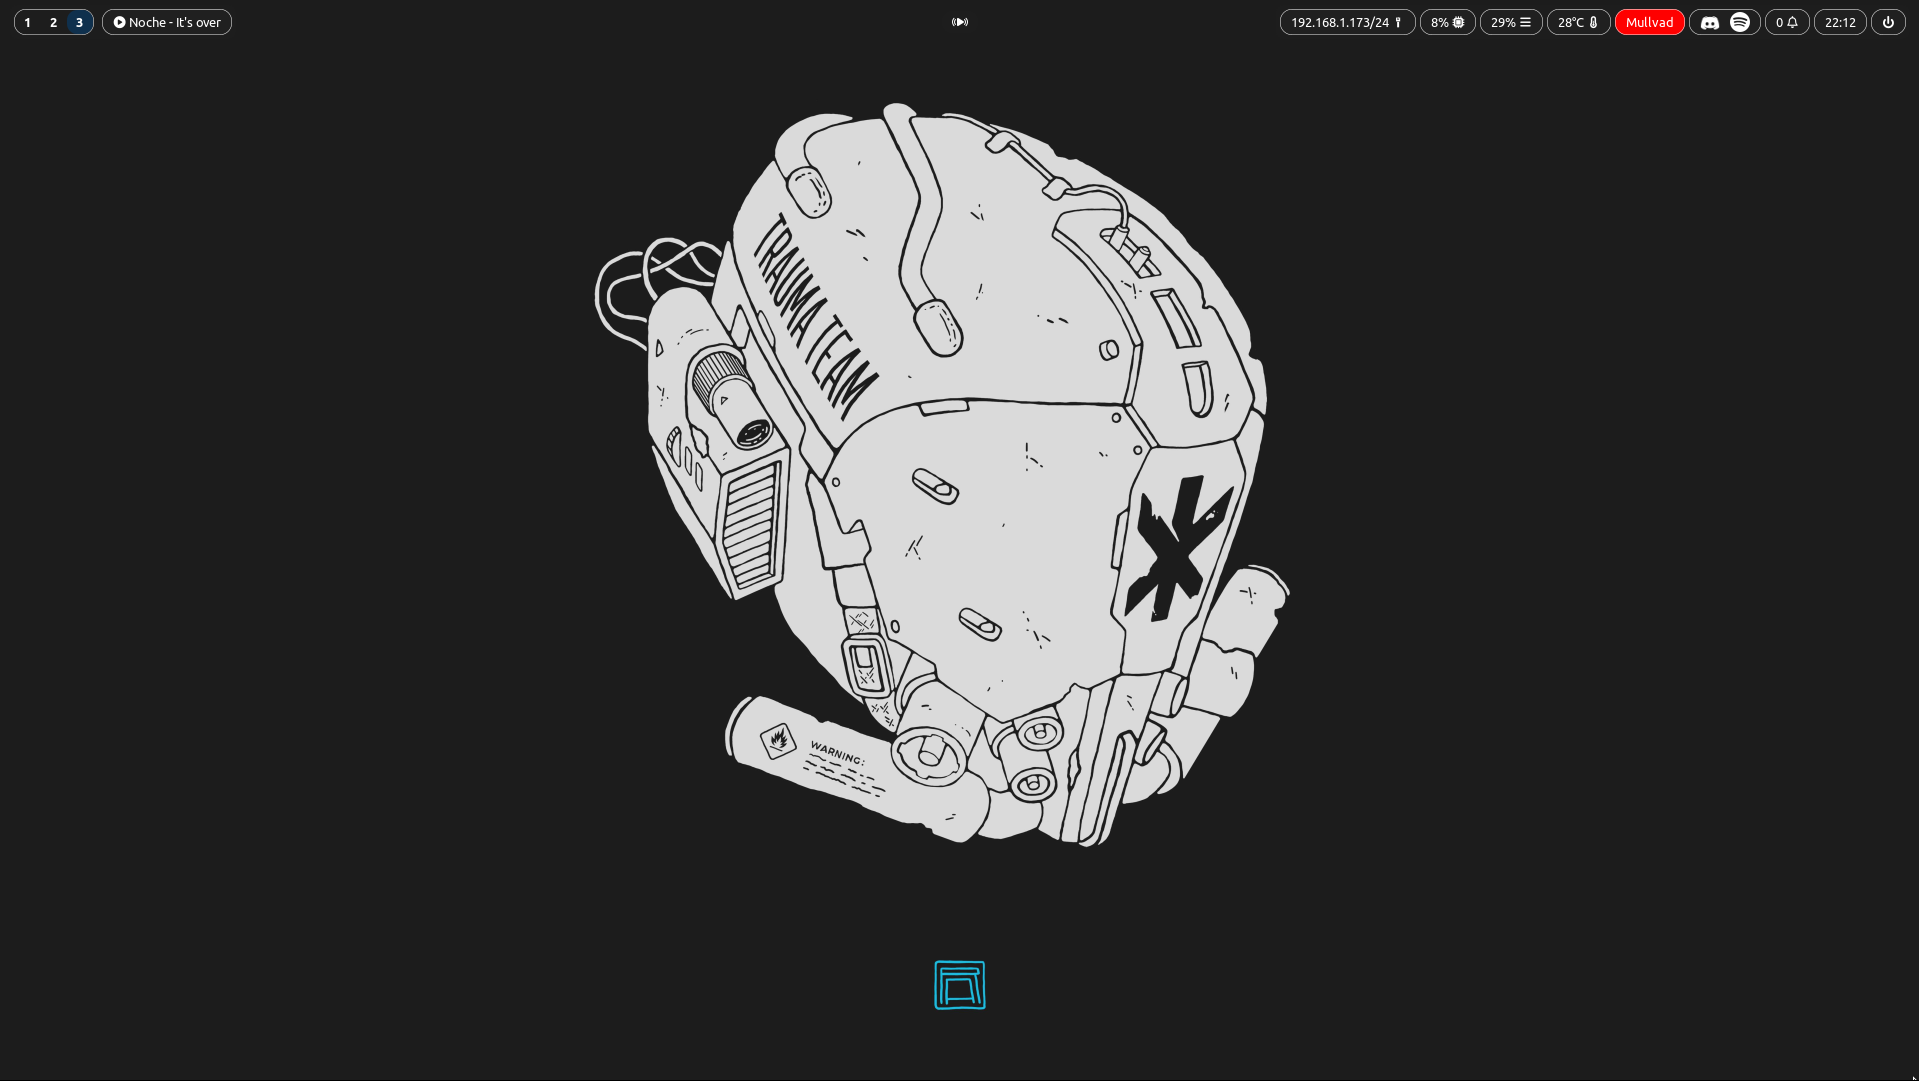
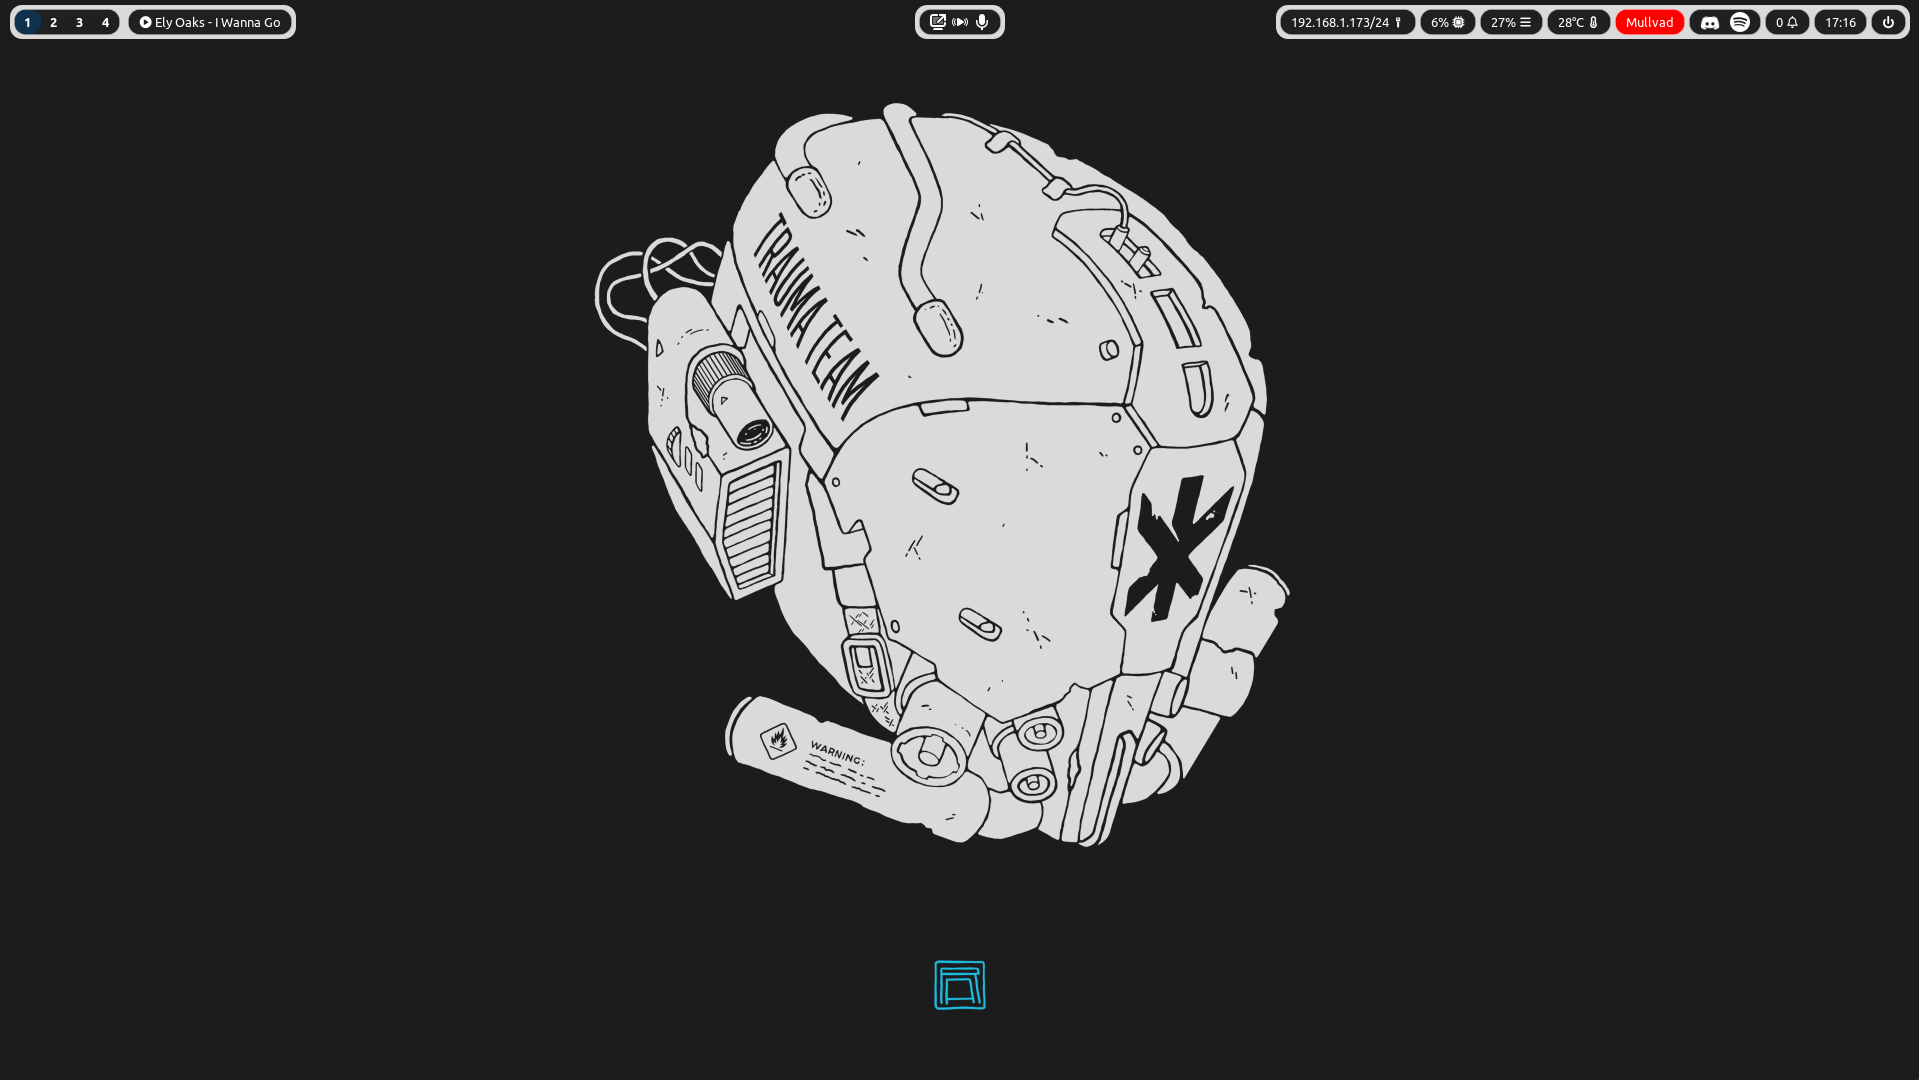
Updated waybar and nvim

diff --git a/dotfiles/.config/waybar/style.css b/dotfiles/.config/waybar/style.css
@@ -1,4 +1,4 @@
-@define-color background rgba(32, 32, 32, 0.3);
+@define-color background rgba(218, 218, 218, 1);
 @define-color module rgb(32, 32, 32);
 @define-color button rgba(32, 32, 32, 0.5);
 @define-color button-focus rgba(5, 60, 109, 0.6);
@@ -20,21 +20,21 @@ window#waybar {
 .modules-left {
 	padding: 4px;
 	margin: 5 0 0 10;
-	border-radius: 8px;
+	border-radius: 12px;
 	background-color: @background;
 }
 
 .modules-center {
-	padding: 6px;
+	padding: 4px;
 	margin: 5 0 0 0;
-	border-radius: 16px;
-	background-color: transparent;
+	border-radius: 12px;
+	background-color: @background;
 }
 
 .modules-right {
 	padding: 4px;
 	margin: 5 10 0 0;
-	border-radius: 8px;
+	border-radius: 12px;
 	background-color: @background;
 }
 
@@ -106,6 +106,7 @@ button {
 #custom-media,
 #mode,
 #idle_inhibitor,
+#privacy,
 #scratchpad {
 	padding: 0 10px;
 	background-color: @module;
@@ -123,16 +124,8 @@ button {
 	border-width: 0.5px;
 	border-style: solid;
 	border-radius: 12px;
+	background-color: @module;
 
-}
-
-#privacy {
-	padding-right: 10px;
-	padding-left: 10px;
-	padding-bottom: 2px;
-	padding-top: 2px;
-	border-radius: 10px;
-	background-color: @background;
 }
 
 /* If workspaces is the leftmost module, omit left margin */

diff --git a/README.md b/README.md
@@ -8,4 +8,7 @@ Use install.sh to automaticlly set up a swayfx tiling enviroment and different s
 
 ## Colors
 #053C6D Blue
+
 #bf1d00 Red/Orange
+
+#dadada White
